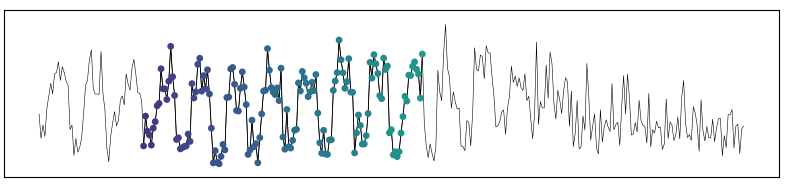
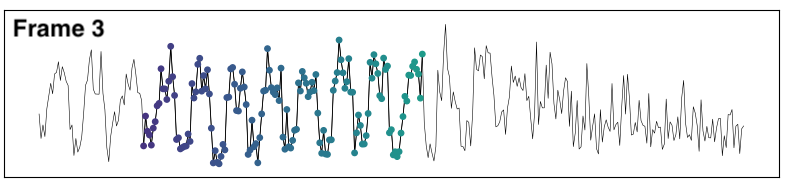
add labels and come context

Changed region(s): [[0.0, 0.0815, 0.1523, 0.2174]]

diff --git a/slides.md b/slides.md
@@ -15,9 +15,38 @@ Topological Data Analysis for the Python ecosystem.
 
 ---
 
-class: center, middle, qs
+# Changes
 
-<!-- Topological Data Analysis is a new field of applicable mathematics gaining attention in the world of data science. This talk will introduce everything TDA working from holes and nerves to persistence. We'll then explore an application of TDA to time series analysis using new open source tools.  -->
+- add back in an introduction of scikit-tda.
+- add code snippets for all scikit-tda related code.
+- trim down most of the time series analysis.
+- Add a brief (2 slides) on using persistence images with classification.
+
+---
+
+# Context
+
+- Previously: Lots of different tools. Large amount of overlap. Completely different APIs. Nontrivial overlap.
+
+- Scikit-TDA offers easy installation. 
+<!-- We've done our best to make it very easy for people to get started experimenting with the methods.  -->
+
+``` Python
+pip install sktda
+```
+
+- Scikit-TDA offers easy contributions. 
+<!-- We've done our best to be responsive and welcoming to community contributions -->
+
+    - Show all the images of peoples avatars 
+
+- Scikit-TDA offeres *almost* all the major algorithms in TDA
+
+    - Show all the libraries' logos.
+
+---
+
+class: center, middle, qs
 
 # Outline
 
@@ -27,17 +56,9 @@ class: center, middle, qs
 
 **Persistent Homology**
 
+**Feature engineering**
+
 **Anomaly Detection**
-
----
-
-class: center, middle
-
-## Topology
-
-_Something about_ **donuts** _and_ **coffee cups**?
-
-![Chief Wiggum from the Simpsons](images/Chief_Wiggum.png)
 
 ---
 
@@ -112,11 +133,18 @@ lots of combinations
 
 ---
 
-class: center
+class: center, middle, qs
 
-## Data &rarr; Complex
+### 
+
+<hr>
+
+## Persistent Homology
+
+
 
 ---
+
 
 class: center
 
@@ -156,6 +184,87 @@ class: center
 
 ---
 
+
+# Fundamental examples
+
+.cols[
+.thirty[
+
+]
+.thirty[
+``` Python
+loop = tadasets.dsphere(d=1)
+dgms = ripser(loop)
+persim.plot_diagrams(dgms)
+```
+]
+.thirty[
+
+]
+]
+
+.center[
+<img src="images/generated/loop.png" width="340px">
+<img src="images/generated/loop_pd.png" width="340px">
+]
+---
+
+
+# Fundamental examples
+
+.cols[
+.thirty[
+
+]
+.thirty[
+``` Python
+sphere = tadasets.dsphere(d=2)
+dgms = ripser(sphere)
+persim.plot_diagrams(dgms)
+```
+]
+.thirty[
+
+]
+]
+
+.center[
+<img src="images/generated/sphere.png" width="340px">
+<img src="images/generated/sphere_pd.png" width="340px">
+]
+
+---
+
+
+
+# Fundamental examples
+
+.cols[
+.thirty[
+
+]
+.thirty[
+``` Python
+torus = tadasets.torus()
+dgms = ripser(torus)
+persim.plot_diagrams(dgms)
+```
+]
+.thirty[
+
+]
+]
+
+
+.center[
+<img src="images/generated/torus.png" width="340px">
+<img src="images/generated/torus_pd.png" width="340px">
+]
+
+
+---
+
+
 class: center
 
 ## Persistence diagrams
@@ -172,6 +281,7 @@ class: center
 ]
 ]
 
+
 ---
 
 class: center, middle, qs
@@ -180,7 +290,7 @@ class: center, middle, qs
 
 <hr>
 
-## Automatic anomaly detection
+## Anomaly detection
 
 Sliding window embedding
 
@@ -192,9 +302,11 @@ Comparison of Persistence diagrams
 
 class: center, middle
 
-Real New Relic data
+## Time series data
 
-<img src="images/case_study_ts/chart-builder-series.png" width="100%"/>
+<img src="images/case_study_ts/full_series.png" width="100%"/>
+
+<small> Average duration of web transactions aggregated over ~5 seconds.</small>
 
 Can we tell when this periodic signal _falls apart_?
 
@@ -202,15 +314,15 @@ Can we tell when this periodic signal _falls apart_?
 
 class: center, middle
 
-## Compute period size
+## Preprocessing
 
-<img src="images/case_study_ts/sliding_peaks.png" width="50%"/>
-
-<img src="images/case_study_ts/sliding_buckets.png" width="90%"/>
-
+<img src="images/case_study_ts/sliding_peaks.png" width="40%"/><br>
 Autocorrelation curve
 
----
+<img src="images/case_study_ts/sliding_buckets.png" width="90%"/><br>
+Periods found from peak 
+
+<!-- ---
 
 class: center, middle
 
@@ -222,7 +334,7 @@ Each window becomes 3-D vector.
 
 <img src="images/case_study_ts/embedding_parea.png" width="100%"/>
 
-.footnote[Image credit Jose Perea.]
+.footnote[Image credit Jose Perea.] -->
 
 ---
 
@@ -238,17 +350,12 @@ class: center, middle
 
 class: center, middle
 
-<img src="images/case_study_ts/sliding5.gif" width="95%"/>
+``` Python
+diagrams = Rips().fit_transform(embedding)
+persim.plot_diagrams(diagrams)
+```
 
----
-
-class: center, middle
-
-# Comparison
-
-## Max bar
-
-<img src="images/case_study_ts/max_bar_canvas.png" width="100%"/>
+<img src="images/case_study_ts/sliding5.gif" width="70%"/>
 
 ---
 
@@ -256,39 +363,57 @@ class: center, middle
 
 ## Wasserstein distances
 
-<img src="images/case_study_ts/wasserstein_comparison.png" width="70%"/><br>
-<img src="images/case_study_ts/frames/frame3_signal.png" width="45%"/><br>
-<img src="images/case_study_ts/frames/frame5_signal.png" width="45%"/>
-<img src="images/case_study_ts/frames/frame8_signal.png" width="45%"/>
+``` Python
+d = persim.wasserstein(diagram3, diagram5)
+```
+
+<img src="images/case_study_ts/wasserstein_comparison.png" width="60%"/><br>
+<img src="images/case_study_ts/frames/frame3_signal.png" width="40%"/><br>
+<img src="images/case_study_ts/frames/frame5_signal.png" width="40%"/>
+<img src="images/case_study_ts/frames/frame8_signal.png" width="40%"/>
+
+
+
 
 ---
 
-class: center, middle
+class: center, middle, qs
 
-## Wasserstein distance curve
+### Case study
 
-Comparing 1st diagram to subsequent diagrams using Wasserstein distance
+<hr>
 
-<img src="images/case_study_ts/wasser_curve.png" width="60%"/>
+## Classification
+
+Level set persistence
+
+Persistence images
+
+Classification algorithms
+
 
 ---
 
-class: center, middle
+# Sprint
 
-## Wasserstien distance matrix
+- Help with conda-forge packaging
+- 
 
-<img src="images/case_study_ts/wasser_dm.png" width="60%"/>
 
-<!-- ---
+---
 
-class: center, middle
+# Next time
 
-## Bottleneck distances
+- Lots of other methods (mapper, sheaves, and more)
 
-<img src="images/case_study_ts/bottleneck_comparison.png" width="70%"/>
-<img src="images/case_study_ts/frames/frame3_signal.png" width="45%"/><br>
-<img src="images/case_study_ts/frames/frame5_signal.png" width="45%"/>
-<img src="images/case_study_ts/frames/frame8_signal.png" width="45%"/> -->
+
+---
+
+# Thank you
+
+- Chris Tralie
+- Leland McInnes
+- 
 
 ---
 
@@ -334,10 +459,6 @@ www.scikit-tda.org
 class: outline
 
 # References
-
-All code and data to replicate what is shown here:
-
-- [source.github.com/insights/data-driven-exploration/TDAtimeseries](https://source.datanerd.us/insights/data-driven-exploration/blob/master/TDAtimeseries/TDA%20of%20Timeseries.ipynb)
 
 Embedding technique:
 
